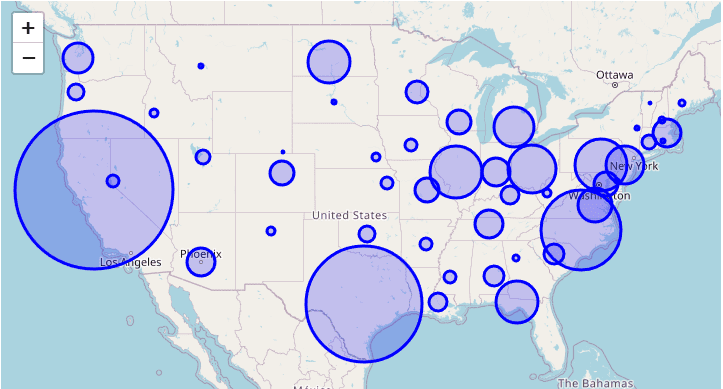
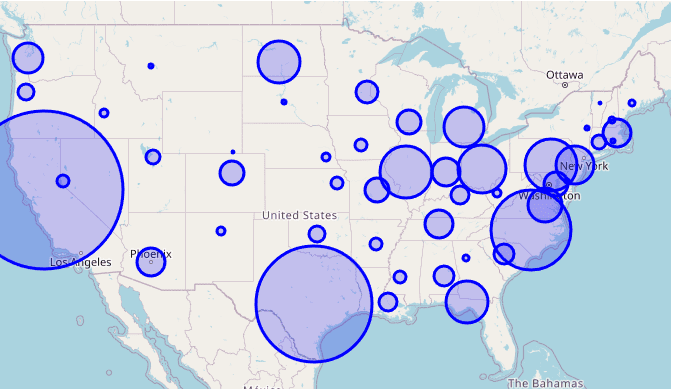
Posible quinto mapa

diff --git a/pages/map4/styles.css b/pages/map4/styles.css
@@ -14,34 +14,59 @@
     align-items: center;
 }
 
-input[type="range"] {
+.slider {
     transform: rotate(-90deg);
+    display: flex;
+    align-items: center;
+}
+
+.slider div:first-of-type,
+.slider div:last-of-type {
+    background-color: var(--text-color-darker);
+    border-radius: 100%;
+    margin: 0;
+    box-shadow: 0 0 10px 0 black;
+}
+
+.slider div:first-of-type {
+    width: 9px;
+    height: 9px;
+    margin-right: 5px;
+}
+
+.slider div:last-of-type {
+    width: 25px;
+    height: 25px;
+    margin-left: 5px;
+}
+
+input[type="range"] {
     appearance: none;
     background: transparent;
     cursor: pointer;
-    width: 15rem;
+    width: 12rem;
 }
 
 input[type="range"]::-webkit-slider-runnable-track {
     background: var(--text-color);
-    height: 0.3rem;
+    height: 0.2rem;
     border-radius: 10px;
 }
 
 input[type="range"]::-webkit-slider-thumb {
     appearance: none;
-    background-color: hsla(0, 0%, 100%, 0.5);
-    box-shadow: 0 0 5px 0 black;
+    background-color: hsla(0, 0%, 100%, 0.7);
+    box-shadow: 0 0 5px 0 var(--airbnb-color);
     height: 2rem;
     width: .5rem;
-    margin-top: -14px;
+    margin-top: -15px;
     border-radius: 5px;
 }
 
 .slider-container div {
     display: flex;
     gap: 2px;
-    margin-top: 130px;
+    margin-top: 120px;
     font-style: italic;
     font-size: 14px;
 }
@@ -54,14 +79,6 @@ input[type="range"]::-webkit-slider-thumb {
     background-color: var(--background-color) !important;
 }
 
-.tiles {
-    max-width: 230px;
-}
-
-.map-offset {
-    width: 10px;
-}
-
 .center-buts-container {
     margin-left: 60px;
 }
@@ -70,20 +87,47 @@ input[type="range"]::-webkit-slider-thumb {
     color: var(--text-color);
 }
 
+.popup h3 {
+    color: var(--airbnb-color);
+    margin-bottom: 10px;
+}
+
+.popup div {
+    display: flex;
+    align-items: center;
+    gap: 8px;
+}
+
+.popup div p {
+    margin: 0;
+}
+
+.layers-list button {
+    font-size: 13px;
+    display: flex;
+    justify-content: center;
+}
+
 @media (max-width: 900px) {
-    .map-offset {
+    .slider-container {
         width: 100%;
+        display: flex;
+        flex-direction: row;
+        gap: 20px;
+        justify-content: center;
+        align-items: center;
+        margin-top: 15px;
+    }
+
+    .slider {
+        transform: rotate(0);
+    }
+
+    .slider-container div {
+        margin-top: 0;
     }
 
     .center-buts-container {
         margin-left: 0;
-    }
-
-    .layers-list {
-        align-items: center;
-    }
-
-    .tiles {
-        max-width: inherit;
     }
 }

diff --git a/pages/map4/script.js b/pages/map4/script.js
@@ -1,24 +1,29 @@
+// Capa del mapa de burbujas
 let bubbleLayer = null;
 
-// Función para centrar el mapa
-function centerMap(lat, lng, zoom) {
-  map.setView([lat, lng], zoom);
-}
+changingScale = false;
 
 // Función para calcular el radio de la burbuja según la escala y el conteo
 function getRadius(count, scale) {
-  return Math.sqrt(count) * scale;
+  return Math.sqrt(count / 10) * scale;
 }
 
 // Función para actualizar las burbujas en el mapa
 function updateBubbleMap(scale) {
+  // Ignorar cambio en caso de que no haya terminado uno previo
+  if (changingScale) return;
+  else changingScale = true;
+
+  // Limpiar la capa de burbujas actual
   if (bubbleLayer) map.removeLayer(bubbleLayer);
 
+  // Generar nuevo mapa de burbujas
   Promise.all([
     fetch("./data/madrid_bubble.geojson").then((res) => res.json()),
     fetch("./data/barcelona_bubble.geojson").then((res) => res.json()),
   ])
     .then(([madridData, barcelonaData]) => {
+      // Combinar los datos de ambas ciudades
       const combinedData = [...madridData.features, ...barcelonaData.features];
 
       bubbleLayer = L.geoJSON(combinedData, {
@@ -35,12 +40,20 @@ function updateBubbleMap(scale) {
         },
         onEachFeature: function (feature, layer) {
           layer.bindPopup(
-            `<div class="popup"><strong>${feature.properties.neighbourhood_group}</strong><br>
-              Alojamientos: ${feature.properties.count}</div>`
+            `<div class="popup">
+              <h3>${feature.properties.neighbourhood_group}</h3>
+              <div>
+                  <i class="fa-solid fa-building"></i>
+                  <p>${feature.properties.count}</p>
+              </div>
+            </div>`
           );
         },
       }).addTo(map);
-    });
+
+      changingScale = false;
+    })
+    .catch(() => (changingScale = false));
 }
 
 // Función para poner y quitar las burbujas
@@ -57,12 +70,14 @@ function changeLayerView(button) {
   toggleLayerView(bubbleLayer);
 }
 
-// Inicializar el mapa con escala predeterminada
 const scaleSlider = document.getElementById("scaleSlider");
 const scaleValue = document.getElementById("scaleValue");
-updateBubbleMap(scaleSlider.value);
 
-// Actualizar la escala al mover el slider
+// Primera inicialización del mapa
+updateBubbleMap(scaleSlider.value);
+scaleValue.innerHTML = scaleSlider.value;
+
+// Detectar el cambio de escala
 scaleSlider.addEventListener("change", () => {
   updateBubbleMap(scaleSlider.value);
 });

diff --git a/index.html b/index.html
@@ -94,17 +94,17 @@
         <article>
           <img src="images/map-types/choropleth.png" alt="" />
           <div>
-            <h3><b>Mapa de coropletas </b><i>distritos</i></h3>
+            <h3><b>Mapa de coropletas </b><i>barrios</i></h3>
             <p>
-              Este mapa muestra los distritos de ambas ciudades utilizando un
-              mapa de coropletas. En cada distrito hay información como nombre,
+              Este mapa muestra los barrios de ambas ciudades utilizando un mapa
+              de coropletas. En cada barrio hay información como nombre,
               descripcion, precio medio, cantidad de alojamientos, medias de
               valoración, etc. Además, puedes cambiar la distribución entre
               varias opciones.
             </p>
             <ul class="variables-list">
-              <li>neighbourhood</li>
-              <li>neighbourhood_group</li>
+              <li>neighbourhood_cleansed</li>
+              <li>neighbourhood_group_cleansed</li>
               <li>price</li>
               <li>number_of_reviews</li>
               <li>review_scores_rating</li>
@@ -118,7 +118,7 @@
         <article>
           <img src="images/map-types/bubble.png" alt="" />
           <div>
-            <h3><b>Mapa de burbuja </b><i>cantidad de alojamientos</i></h3>
+            <h3><b>Mapa de burbujas </b><i>cantidad de alojamientos</i></h3>
             <p>
               Este mapa muestra la cantidad de alojamientos que hay por distrito
               utilizando un mapa de burbuja. Cuanto más grande sea la burbuja,
@@ -135,7 +135,7 @@
 
       <a href="pages/map5/index.html">
         <article>
-          <img src="images/map-types/choropleth.png" alt="" />
+          <img src="images/map-types/traffic.png" alt="" />
           <div>
             <h3><b>Mapa de tráfico </b><i>hosts</i></h3>
             <p>

diff --git a/pages/map3/index.html b/pages/map3/index.html
@@ -3,7 +3,7 @@
   <head>
     <meta charset="UTF-8" />
     <meta name="viewport" content="width=device-width, initial-scale=1.0" />
-    <title>Distritos | Mapa de coropletas</title>
+    <title>Barrios | Mapa de coropletas</title>
     <link rel="icon" href="../../images/favicon.png" type="image/x-icon" />
     <!-- Estilos CSS -->
     <link rel="stylesheet" href="../styles.css" />
@@ -26,13 +26,13 @@
         <i class="fas fa-home" style="margin-right: 2px"></i>
         Inicio
       </a>
-      | Mapa de coropletas de distritos
+      | Mapa de coropletas de barrios
     </p>
     <div class="separator"></div>
 
     <!-- Contenido de la página -->
     <div class="content">
-      <h1>Mapa de coropletas <span>distritos</span></h1>
+      <h1>Mapa de coropletas <span>barrios</span></h1>
 
       <!-- Container con las acciones para centrar el mapa -->
       <div class="center-container">

diff --git a/pages/map4/index.html b/pages/map4/index.html
@@ -61,13 +61,16 @@
       <div class="map-container">
         <!-- Añadir slider para cambiar la escala del mapa -->
         <div class="slider-container">
-          <input type="range" id="scaleSlider" min="1" max="10" step="0.5" value="1" />
+          <div class="slider">
+            <div></div>
+            <input type="range" id="scaleSlider" min="1" max="5" step="1" value="3" />
+            <div></div>
+          </div>
           <div>
-            <p>Escala: <span id="scaleValue">1</span></p>
+            <p id="scaleValue"></span></p>
           </div>
         </div>
-        <!-- Separación -->
-        <div class="map-offset"></div>
+
         <!-- Mapa -->
         <div id="map"></div>
 

diff --git a/pages/styles.css b/pages/styles.css
@@ -136,6 +136,10 @@ h1 span {
     transition: all .3s ease;
 }
 
+.tms-list button {
+    text-align: start;
+}
+
 .layers-list button {
     border-radius: 10px;
     padding: 10px;
